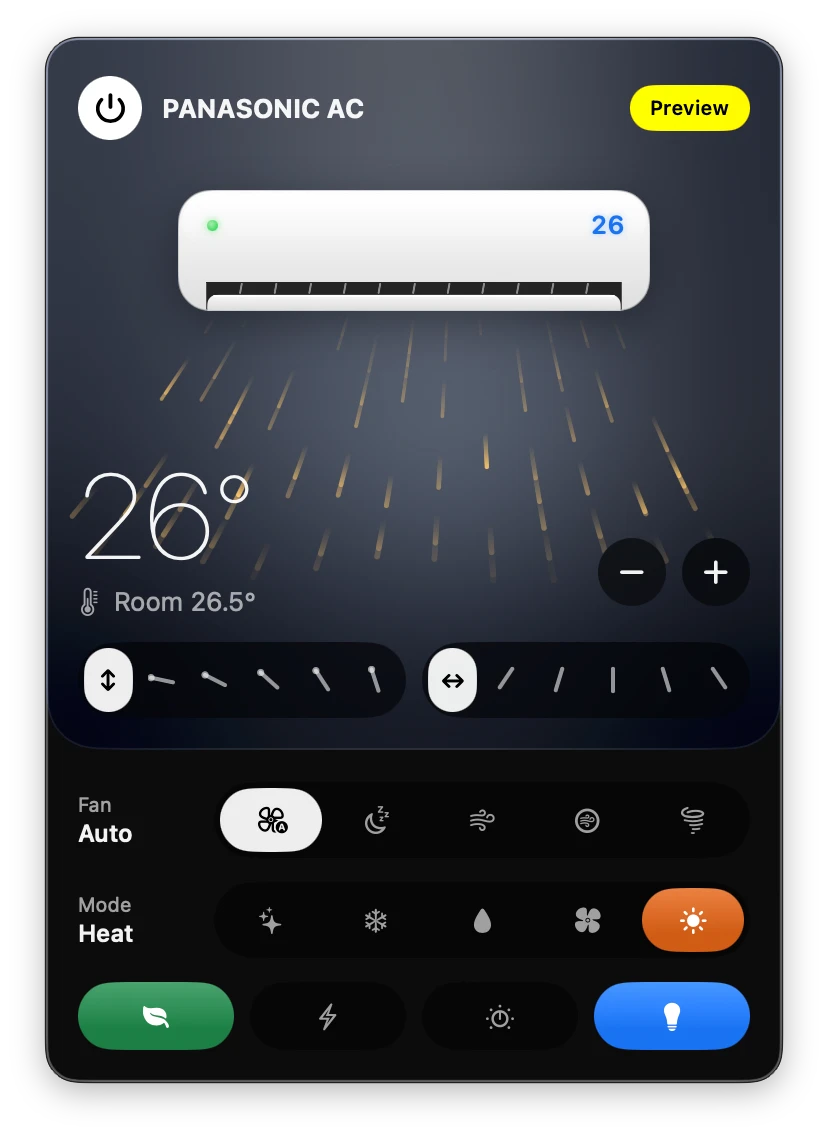
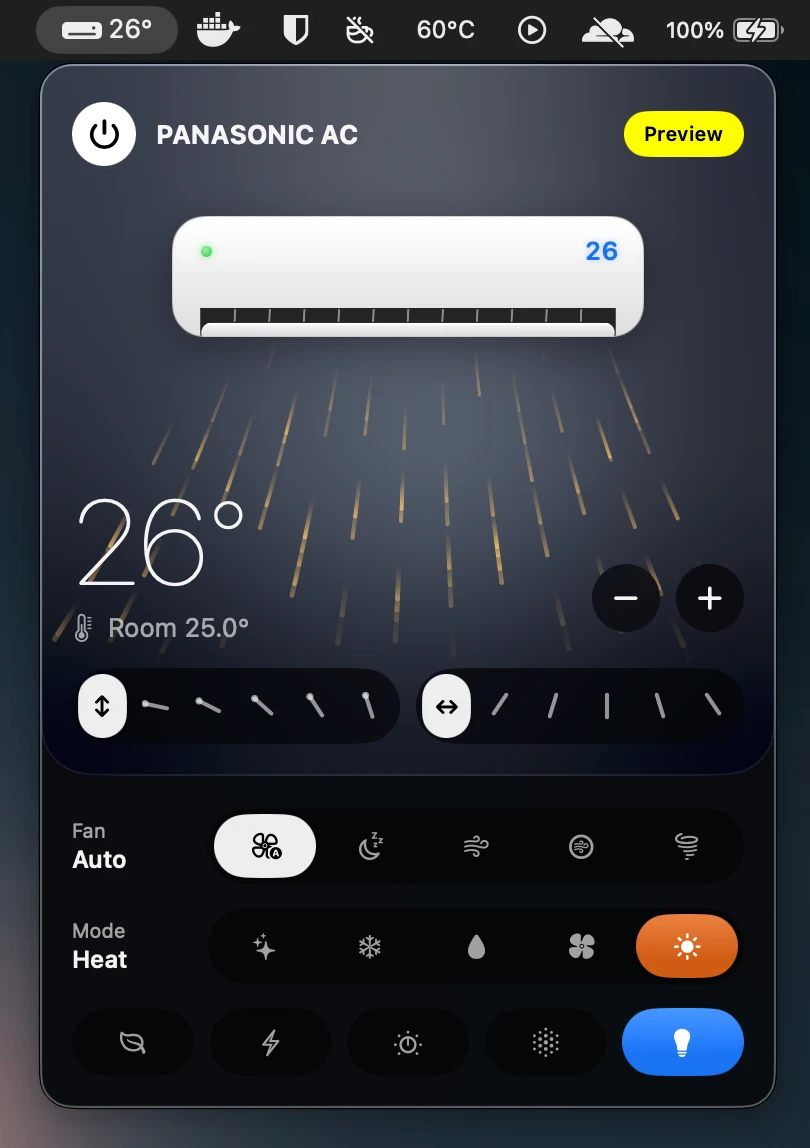
Show the latest panel and lead with one-click settings (#5)
- A new demo animation and screenshots (Cool, the Converti7 menu and Heat)
- Explain the main advantage over the MirAIe app: every mode, fan speed and air
  direction is one click away, instead of stepping through them one tap at a time

diff --git a/README.md b/README.md
@@ -25,10 +25,15 @@
 </p>
 
 <p align="center">
-  <img src="docs/media/demo.gif" width="420" alt="Opening Mitra from the menu bar, then changing fan speed, mode and temperature">
+  <img src="docs/media/demo.gif" width="420" alt="Changing fan speed, mode, temperature and airflow in Mitra, each with a single click">
 </p>
 
 ## Why you'll like it
+
+**Go straight to the setting you want.** In the MirAIe app, the mode is a single button you tap
+again and again, stepping through every mode until you land on the one you want, and fan speed
+and air direction work the same way. In Mitra every option is laid out in front of you, so any
+mode, fan speed or air direction is just one click away.
 
 **It's always one click away.** No phone to find, no app to open, no remote lost down the side of
 the sofa. Click the icon in the menu bar and your AC is right there, with the set temperature
@@ -48,9 +53,9 @@ straight away. A light on the drawn unit tells you whether your AC is online.
 Every action also works in Shortcuts, so your AC can switch on before you get home.
 
 <p align="center">
-  <img src="docs/media/panel-auto.webp" width="360" alt="The panel in Auto mode, with purple air">
-  &nbsp;
-  <img src="docs/media/panel-heat.webp" width="360" alt="The panel in Heat mode, with warm air and Eco on">
+  <img src="docs/media/panel-cool.webp" width="260" alt="The panel in Cool mode, with blue air">
+  <img src="docs/media/panel-converti.webp" width="260" alt="Choosing a Converti7 cooling level from its menu">
+  <img src="docs/media/panel-heat.webp" width="260" alt="The panel in Heat mode, with warm air">
 </p>
 
 ## Everything you can do
@@ -58,9 +63,9 @@ Every action also works in Shortcuts, so your AC can switch on before you get ho
 | | |
 |---|---|
 | **Power and temperature** | Turn on and off, and set 16 to 30 °C with − and +. See the room temperature your AC measures. |
-| **Modes** | Auto, Cool, Dry and Fan, plus Heat on units that have it. |
-| **Fan speed** | Auto, Quiet, Low, Medium and High, named as in the MirAIe app. |
-| **Airflow** | Up/down and left/right: swing, or any of five positions on each. |
+| **Modes** | Auto, Cool, Dry and Fan, plus Heat on units that have it, each one click away. |
+| **Fan speed** | Auto, Quiet, Low, Medium and High, named as in the MirAIe app, each one click away. |
+| **Airflow** | Up/down and left/right: swing, or any of five positions on each, each one click away. |
 | **Features** | Eco, Powerful, Converti7 cooling levels, nanoe X on units that have it, and the display light. |
 | **Every AC** | Switch between all the ACs on your MirAIe account. |
 | **Siri and Shortcuts** | Power, temperature, mode, fan speed, airflow and status. |

diff --git a/CHANGELOG.md b/CHANGELOG.md
@@ -12,6 +12,9 @@ for the Mac.
 
 ### What's new
 
+- **Go straight to the setting you want.** In the MirAIe app you step through modes, fan speeds
+  and air directions one tap at a time to reach the one you want. In Mitra every option is on
+  screen, so any of them is one click away.
 - **Your AC in the menu bar.** Click the icon and the whole AC is there, with the set temperature
   beside the icon at a glance.
 - **A living picture of your AC.** The panel draws your unit blowing air: the flap tilts, the air
